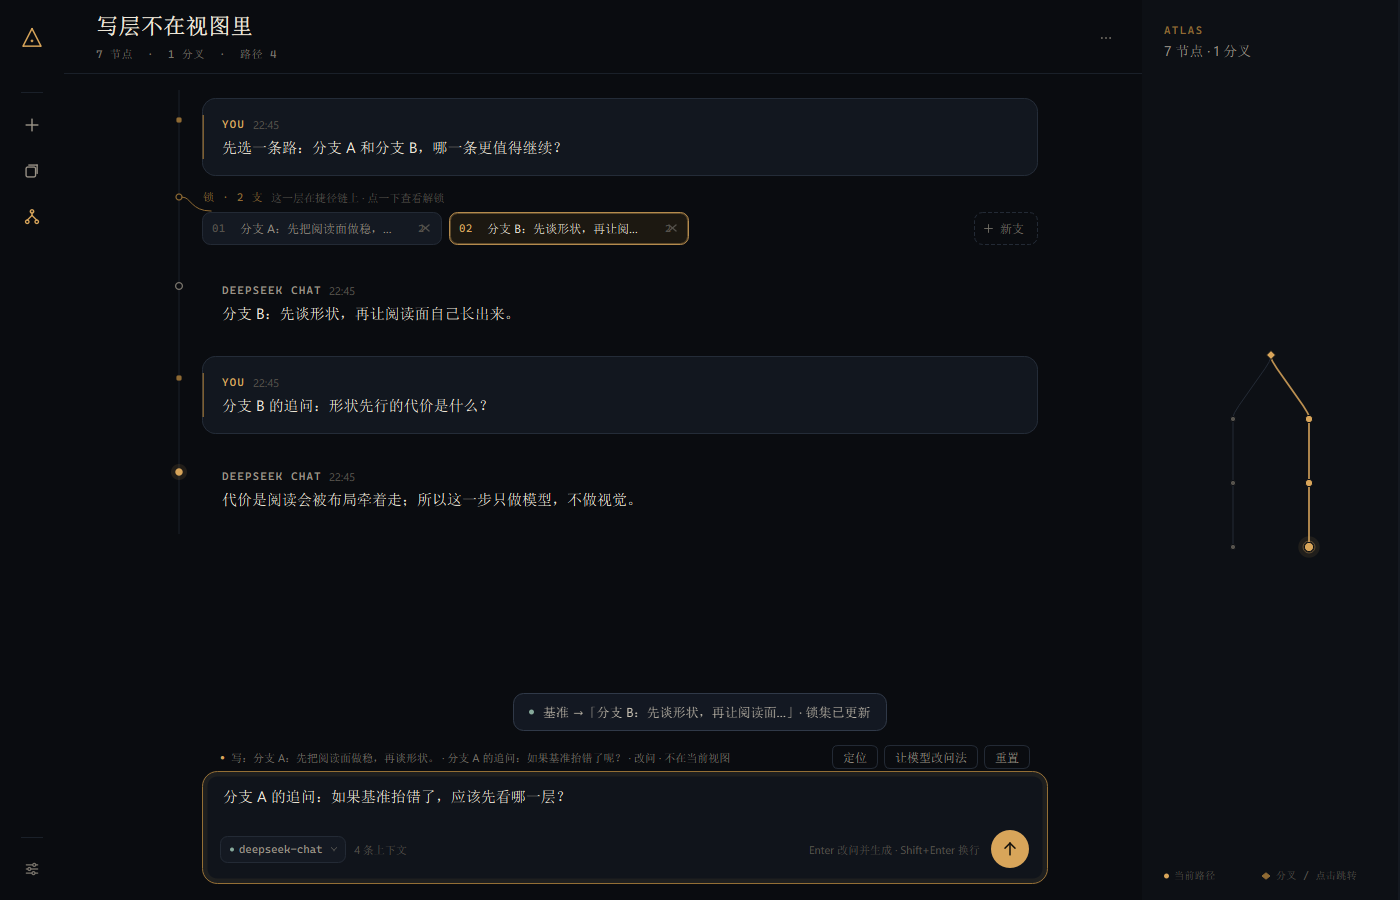
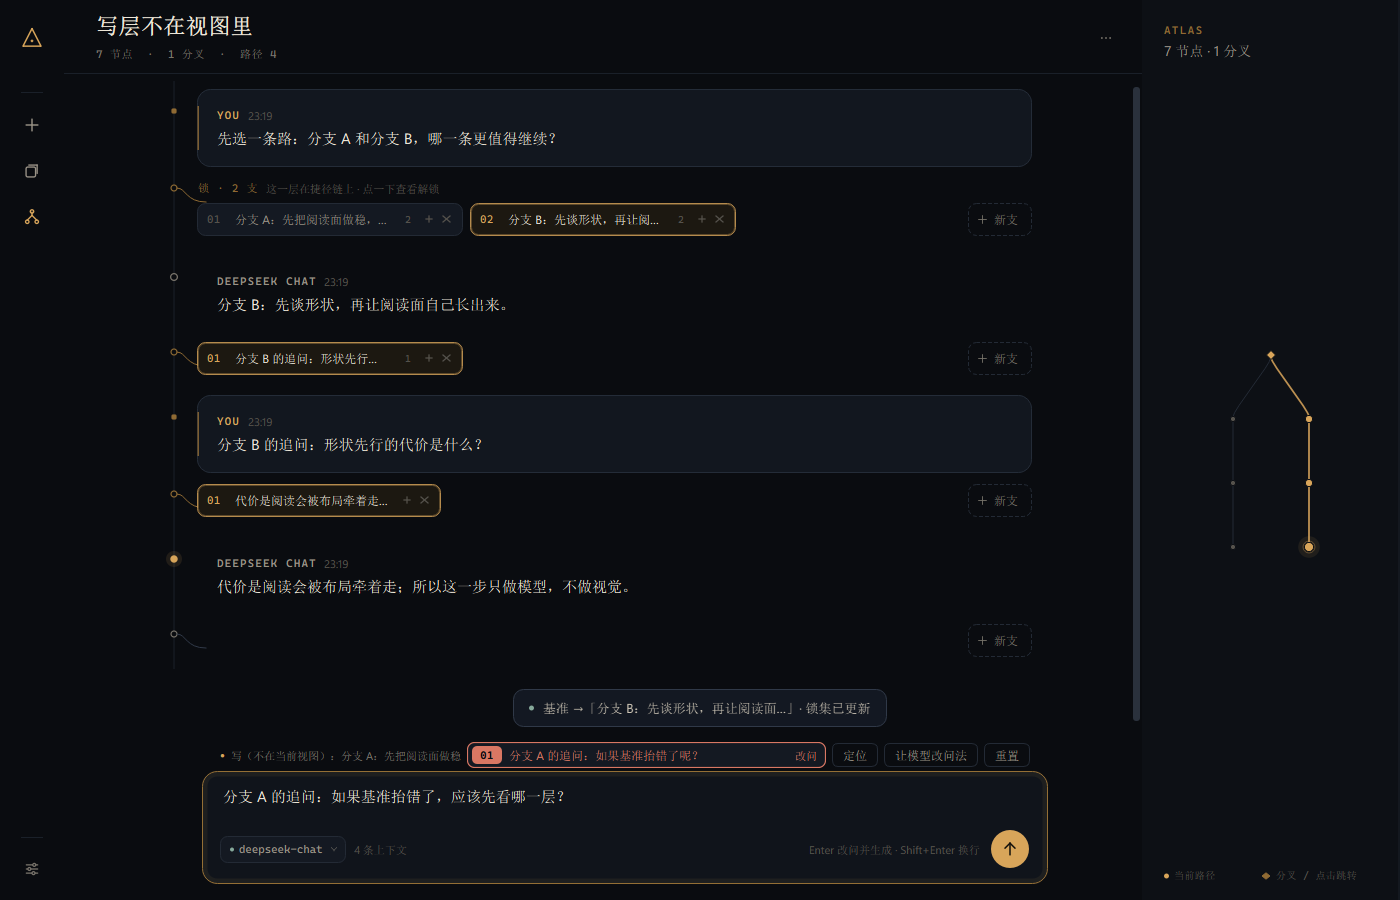
docs: tab wheel, plus/open state, target marker, clean drafts, fresh screenshots

diff --git a/README.md b/README.md
@@ -38,7 +38,7 @@ python -m delta
 - **层**是 parent 底下那排孩子。层上有两类**槽**：
   - 末尾的 **+**：这一层的"再来一个"（提问层 → 新提问；回答层 → 再生成）；
   - 每颗备选自己的槽：提问备选 → 改问；回答备选 → 按意见改 / 自己改。
-- 点开一个槽 = 输入框归它。上方一行写明 **写：层 · 底稿 · 模式**；打字只改这份草稿；切走再回来还在。同一层可以同时有多份草稿，互不覆盖。
+- 点开一个槽 = 输入框归它。上方是**目标标记**（写层 + 编号/底稿 + 模式），和目标标签同编号、同描边；打字只改这份草稿；切走再回来还在。同一层可以同时有多份草稿，互不覆盖。
 - 草稿有模式、初始文本和 dirty：
   - **重置**回到当前模式的初始文本（初始为空、底稿原文、回答原文）；脏了才可点；
   - 回答备选的两种模式可切换；写过会确认，确认后可撤销一次；
@@ -48,11 +48,14 @@ python -m delta
   - 再生成 / 按意见改 / 自己改 = 只写回答层；
   - 按意见改为空 = 普通再生成；改问/自己改与底稿完全相同会被禁用。
 - **写层被锁**时仍可开槽、打字；发送会进入两步确认（只抬基准），草稿全程保留，抬完再按一次发送。
-- **写层不在当前视图**时行里会写明，并给一个显式的 **定位**（set_baseline，不自动跳）。
+- **写层不在当前视图**时目标标记变红，行里写明"不在当前视图"，并给一个显式的 **定位**（set_baseline，不自动跳）。
+- **标签行滚轮**：鼠标在标签行上滚轮、Shift+滚轮都横向滚动；滚到两端也不穿透到正文。
+- **每颗标签有 +**：悬停出现的 + 打开该备选的槽（不是只能右键）；标签和输入框同时进入打开态（同编号、同描边、标签下划线）；末尾空白小签也有打开态；单孩子层也有可见标签（含 +、×）。
+- **干净草稿不落盘**：没输入过、或重置后的 clean 草稿不写 `ui.slots`，缺省读取就是当前模式的初始文本；流式时 clean 草稿仍继续跟随初始文本。
 - **锁**：某一层在捷径链（根 → 基准）上时，切换、新建、关闭、重排全部不可用。点一下只会进入确认态；确认 = **把基准抬到这一层的 parent**，四类操作一起恢复。不设单键快捷键。
 - **ATLAS** 点节点 = **设基准**；锁集是派生出来的，从不单独写。每次基准变化都会给一条文字提示。
 - 顶栏菜单：**回到默认路线**（基准 = 根）和 **把捷径写进默认…**（只写链上各层的默认，不解锁、不改基准）。
-- 单孩子层这一轮仍用卡片的**右键菜单**作为入口（新建 / 以这一支为底稿 / 关闭 / 抬基准）；连体标签形态留到下一轮。
+- 每一层（包括单孩子层）都有一颗可见标签，含 + 和 ×；右键菜单仍是快捷方式。连体标签形态留到下一轮。
 - **Enter** 执行，**Shift+Enter** 换行，**Esc** 停止（已收到的半个回答保留）；**Ctrl+N** 新对话，**Ctrl+L** 对话库，**Ctrl+M** 收起/展开 ATLAS。
 
 ## 它特别在哪
@@ -75,17 +78,21 @@ python -m delta
 - **视图**：`祖先链(descend(基准))` — 纯函数。
 - **命令**：基本命令声明写层、读集、效果、逆操作；`commands.execute` 对每一步先过门、再开写作用域；复合命令逐层。
 - **持久化**：每次操作原子写 JSON（schema 2）；旧文件（schema 1）在内存里迁移：把旧可见链一次性写进默认、基准 = 根，首屏不变、无锁、回默认不跳。
-- **槽与草稿**：存 `ui.slots` 子文档（版本化）：活跃槽 + 每个槽的模式/文本/dirty；旧 `ui.draft` 按视图叶映射到对应槽，不丢字；节点或层被删时相关槽/草稿被清掉。
+- **槽与草稿**：存 `ui.slots` 子文档（版本化）：活跃槽 + 每个槽的模式/文本/dirty；旧 `ui.draft` 按视图叶映射到对应槽，不丢字；节点或层被删时相关槽/草稿被清掉；clean 草稿不写，缺省即当前模式的初始文本。
 - **流式**：后台 daemon 线程只把 delta 放进队列；主线程 14ms 批量取一次。流式期先追加纯文本草稿，完成时一次性做完整 markdown 排版。
 
 ![Streaming](docs/screenshots/streaming.png)
 ![Interrupted](docs/screenshots/interrupted.png)
 
-**一个槽开着**（回答 B1 的按意见改槽；写层、底稿、模式、重置都在上方一行）：
+**一个槽开着**（02 标签打开；输入框上方的 02 目标标记指向它，层名/编号/底稿/模式同屏）：
 
 ![Slot open](docs/screenshots/slot_open.png)
 
-**写层不在当前视图**（活跃槽在分支 A；视图在分支 B；行里写明，并提供显式定位）：
+**八条标签，滚轮滚到末尾**（最后几条进入视野；标签行自己消费滚轮，不穿透正文）：
+
+![Tab wheel](docs/screenshots/tab_wheel.png)
+
+**写层不在当前视图**（目标标记变红 + "不在当前视图" + 定位；视图在分支 B，活跃槽在分支 A）：
 
 ![Slot off view](docs/screenshots/slot_offview.png)
 
@@ -95,9 +102,11 @@ python -m delta
 python -m pytest -q
 ```
 
-117 个测试：层与基准的派生（视图纯函数、锁集、默认/展示序/出生序）、命令写作用域（直接调层写入与越层命令都被挡住、逆操作声明）、四个改层门禁、关闭相邻接替、固化、核心防御性删除、schema 1 迁移、槽/草稿/模式切换/重置/逆操作、旧 `ui.draft` 映射、活跃槽持久化、原子存储、SSE 错误分类/中断保留、UI 的前缀控件身份与缓存复用、单行标签条溢出滚动、锁定层两步确认、发送锁层保留草稿、ATLAS 只改基准、右键入口、无 UI 旁路静态扫描、重启一致性、快速乱点。结果见 [docs/TEST_RESULTS.md](docs/TEST_RESULTS.md)。
+124 个测试：层与基准的派生（视图纯函数、锁集、默认/展示序/出生序）、命令写作用域（直接调层写入与越层命令都被挡住、逆操作声明）、四个改层门禁、关闭相邻接替、固化、核心防御性删除、schema 1 迁移、槽/草稿/模式切换/重置/逆操作、旧 `ui.draft` 映射、活跃槽持久化、原子存储、SSE 错误分类/中断保留、UI 的前缀控件身份与缓存复用、单行标签条溢出滚动、锁定层两步确认、发送锁层保留草稿、ATLAS 只改基准、右键入口、无 UI 旁路静态扫描、重启一致性、快速乱点。结果见 [docs/TEST_RESULTS.md](docs/TEST_RESULTS.md)。
 
-性能见 [docs/BENCH.md](docs/BENCH.md)：typing p95 7.76ms；render p95 8.56ms；layer switch p95 15.83ms。
+这一轮新增：标签行滚轮/Shift+滚轮横向滚动且两端不穿透、每颗标签的 + 与打开态、单孩子层可见标签、输入目标标记的编号/标题/变色/定位、干净草稿不落盘。
+
+性能见 [docs/BENCH.md](docs/BENCH.md)：typing p95 7.29ms；render p95 9.92ms；layer switch p95 31.54ms（单孩子标签行可见后，切换重建的行更多）。
 
 ## 结构
 
@@ -111,7 +120,8 @@ tools/          demo、基准、真实模型探针
 
 ## 已知边界
 
-- 这一轮只改模型与行为：配色、图标、动效没有重画；输入框上方多了写目标行与重置/模式/让模型改问法/定位这些文字按钮。单孩子层的连体标签形态、锁的视觉、横向滚动条的外观留到下一轮；因此单孩子层暂时用右键菜单作为入口。
+- 这一轮做可发现性：标签 +/打开态、输入目标标记、单孩子层可见标签、标签行滚轮；配色/动效/连体标签形态留到下一轮。
+- 单孩子层现在是 48px 的紧凑标签行，不是连体标签；每层多一行，长对话的滚动更长，这是下一轮视觉要收的账。
 - 截图来自本轮行为，不是最终视觉；视觉下一轮统一更新。
 - Markdown 是 Qt 富文本的子集；流式期间是纯文本草稿，完成时才排版。
 - ATLAS 为小树设计；几百个节点会变密，尚无搜索/缩放。

diff --git a/docs/TEST_RESULTS.md b/docs/TEST_RESULTS.md
@@ -6,7 +6,7 @@ Command:
 
 Result (2026-10-28, Windows 11, Python 3.14.4, PySide6 6.11.1):
 
-    117 passed in 16.44s
+    124 passed in 19.66s
 
 Raw output: [pytest-output.txt](pytest-output.txt)
 
@@ -23,21 +23,23 @@ Raw output: [pytest-output.txt](pytest-output.txt)
 | Converge | test_model.py | the global command writes only the shortcut layers' defaults, keeps the baseline and the view; the one global exception |
 | Defensive delete | test_model.py | removing a subtree that contains the baseline moves it to the nearest surviving ancestor (not reachable through a layer entrance) |
 | Display order | test_model.py | appending, reordering and closing keep birth order; display order is a permutation; the view does not move |
-| Slots / drafts | test_model.py | per-slot drafts; dirty/reset; mode switch confirm + one-step undo; clean switch seamless; default and legacy slot mapping; persistence; prune |
+| Slots / drafts | test_model.py | per-slot drafts; dirty/reset; mode switch confirm + one-step undo; clean switch seamless; default and legacy slot mapping; persistence; prune; clean drafts are omitted from ui.slots while still following the initial text |
 | Slot commands | test_model.py | new question is a 2-step composite with one inverse; new answer is single; revise question keeps the original; rewrite with/without feedback; self-edit is non-model; root writes the root then the answer; declared read ids; can_send rules |
 | Draft actions | test_model.py | reset, mode switch and propose-question-messages write no node |
 | Migration | test_migration.py | schema 1 -> 2: the old visible chain becomes the default route; baseline = root; no locks; mid-branch pointer truncates; schema 2 roundtrip |
 | Context | test_context.py | only the view enters the prompt; reasoning is never sent back; empty placeholders skipped |
 | Persistence | test_store.py | atomic save/load of nodes, defaults, baseline, display order, meta, UI slots; crash mid-stream becomes interrupted; trash; schema 2 on disk |
 | Streaming | test_client.py | SSE content + reasoning; 401/403, 429 + Retry-After, 5xx; timeout; dropped connection; cancellation after partial; malformed events; missing key |
-| UI: layer strip | test_ui.py | one row, fixed height, horizontal scroll on overflow; add opens a slot (no node); close/drag are commands |
-| UI: slot line | test_ui.py | write target + mode above the input; reset enabled only when dirty; locate action; off-view line; locked line says the baseline moves first |
+| UI: layer strip | test_ui.py | one row, fixed height, horizontal scroll on overflow; wheel/Shift+wheel scroll horizontally and are consumed at both ends; each tab has a visible + that opens its slot; open tab and tail chip have an open state; single-child layers show a compact tab with +/×; add opens a slot (no node); close/drag are commands |
+| UI: slot line | test_ui.py | the target marker shares the tab's number/title/outline; the write-layer label is explicit; off-view turns the marker red and shows locate; locked says the baseline moves first; reset enabled only when dirty |
+| UI: clean drafts | test_ui.py | opening a slot with no text leaves ui.slots empty; typing creates an item; reset removes it again |
 | UI: modes | test_ui.py | answer base switches model/self mode; dirty confirm; one-step undo; per-slot drafts survive switching |
 | UI: send | test_ui.py | send executes the active slot; new question/answer; rewrite empty = regenerate; rewrite feedback reads the base; self-edit makes no model call; active slot moves to the new view leaf tail |
 | UI: locks | test_ui.py | clicking a locked tab does not switch; confirming raises the baseline; sending on a locked write layer writes nothing and keeps the draft; after unlocking, send again works |
 | UI: proposal | test_ui.py | propose question replaces the draft only; no node; draft dirty |
 | UI: ATLAS | test_ui.py | a click changes only the baseline; reset releases every lock |
 | UI: incremental | test_ui.py | a switch preserves the exact widget objects in the common prefix; off-screen cards are reused on return |
+| UI: target | test_ui.py | the marker number equals the tab number (02), the title is the tab title, and the same tab is open |
 | UI: restart | test_ui.py | active slot and draft survive close/reopen |
 | UI: rapid | test_ui.py | second send while streaming ignored; switching layers mid-stream; double stop; partial text stays on its own node |
 | UI: no bypass | test_ui.py | a static scan of delta/ui asserts no direct layer write, no raw scope call, no direct convo.create/activate/close/reorder/send/ask/answer/abandon, no old API names |
@@ -46,13 +48,14 @@ Raw output: [pytest-output.txt](pytest-output.txt)
 ## Acceptance mapping
 
 1. **Real model, streaming, interrupt, no content loss** — previous live probe: status=complete, 4 SSE tokens, 0.84 s; the UI stream path is covered with a fake client (complete, interrupted, 401), and partial text is asserted in both the node and the saved JSON.
-2. **Key -> char / token -> screen** — [BENCH.md](BENCH.md): typing p95 7.76 ms; streaming render p95 8.56 ms; the UI batches deltas every 14 ms, so the end-to-end p95 is about 22.6 ms, under two 16.7 ms frames. Layer switch p95 15.83 ms after a warm-up.
+2. **Key -> char / token -> screen** — [BENCH.md](BENCH.md): typing p95 7.29 ms; streaming render p95 9.92 ms; the UI batches deltas every 14 ms, so the end-to-end p95 is about 23.9 ms, under two 16.7 ms frames. Layer switch p95 31.54 ms after a warm-up (the compact single-child rows add rebuild work; still under two frames).
 3. **Reflow limited to the affected part** — test_activate_replaces_only_the_suffix asserts prefix identity; test_switch_back_reuses_cached_cards asserts the returned card is the same object.
 4. **Restart identical** — test_restart_restores_active_slot_and_draft; JSON is atomic; the scroll anchor is (row key, offset); the active slot/draft are versioned in ui.slots.
 5. **Rapid operations** — test_rapid_operations_do_not_crosstalk plus double-send/double-stop assertions.
 
 ## Not covered / known
 
-- The visual layer (connected single-child tab, lock affordance, scrollbar look, slot-row styling) is next round.
+- The visual layer (connected single-child tab, lock affordance, scrollbar look, final slot-row styling) is next round.
+- Single-child layers now have a 48px compact strip, not the connected tab; every layer adds a row, so long conversations scroll longer.
 - The current screenshots show behavior, not final visual design.
 - All UI writes go through commands; the one declared repair is RepairEmpty (a streaming placeholder that never received text), also a command with a write layer and a gate.

diff --git a/docs/DESIGN.md b/docs/DESIGN.md
@@ -16,7 +16,11 @@
 
 层上有两类槽：末尾槽（这一层再来一个）和每颗备选自己的槽（以它为底稿）。一个槽最多一份草稿：模式 + 文本 + dirty。同一层可以有多份草稿；同一时刻只有一个活跃槽，输入框归它。草稿与活跃槽存 ui.slots 子文档（版本化），旧 ui.draft 按视图叶映射到对应槽。
 
-模式决定三件事：打开时文本、重置回到哪、执行时发生什么。初始文本是纯函数，不存；未写过（clean）时文本跟随初始（底稿流式时会继续长），写过（dirty）则冻结。重置回到当前初始并清 dirty；模式切换 clean 无感、dirty 要确认，并可撤销一次。
+模式决定三件事：打开时文本、重置回到哪、执行时发生什么。初始文本是纯函数，不存；未写过（clean）时文本跟随初始（底稿流式时会继续长），写过（dirty）则冻结。重置回到当前初始并清 dirty；模式切换 clean 无感、dirty 要确认，并可撤销一次。持久化只写 dirty 草稿：clean 草稿等于"不存在"，缺省读取就是当前模式的初始文本；活跃槽若指向 clean 槽则存 None，读回时回默认。
+
+## 标签条与目标标记
+
+标签条是层的入口。滚轮（含 Shift）在标签条上始终横向滚动，到两端也消费事件，不穿透正文。每颗标签有可见的 +（打开该备选的槽）和 ×（关闭）；打开时标签与输入框共用一套标记：同编号、同描边、标签下划线；末尾小签也有打开态。输入框上方是目标标记（写层 + 编号/底稿 + 模式），不是一行弱说明。单孩子层也显示紧凑标签行，不能只靠右键。
 
 ## 发送是命令，不是塞消息
 
@@ -31,8 +35,8 @@
 - **回答备选两种模式**：按意见改（草稿是意见，模型直接产出新回答节点）和 自己改（草稿是回答原文，不调模型，追加新节点）。回答里装的是模型的话，模型可以直接生产；提问里装的是用户的话，模型只能提议。
 - **读**：祖先链 + 被改的那一条本身，排除它的后代；默认不读兄弟。重写回答时额外读意见；空意见退化成普通再生成。
 - **逆操作**：加孩子 → 关闭它；激活/重排 → 反向；关闭/空占位清理 → 无逆操作，显式不可撤销。模式切换的撤销是草稿级一步快照，不是树级 undo。
-- **活跃槽粘住**：点开哪个就是哪个；视图切换不偷走它。写层不在视图里时行里写明并给显式定位（set_baseline，不自动跳）；执行成功后活跃槽移到新视图叶的末尾槽。
-- **单孩子层**：行为入口是卡片右键菜单（新建 / 以这一支为底稿 / 关闭 / 抬基准）；连体标签形态留到下一轮，不把旧按钮加回卡片。
+- **活跃槽粘住**：点开哪个就是哪个；视图切换不偷走它。写层不在视图里时目标标记变红、写层名加"不在视图"前缀，并给显式定位（set_baseline，不自动跳）；执行成功后活跃槽移到新视图叶的末尾槽。
+- **单孩子层**：也显示一条 48px 的紧凑标签行（标签含 +、×、末尾小签）；右键菜单仍是快捷方式。连体标签形态留到下一轮。
 
 ## 砍掉
 
@@ -43,7 +47,7 @@
 ## 迁移
 
 - **对话 schema 1 → 2**：旧可见链（根 → 旧指针）一次性写进默认，基准 = 根；旧指针停在分支中间时清掉它自己的默认，让首屏停在用户最后看到的节点。链外旧首选保留。不降级。
-- **ui 子文档**：旧 ui.draft 按视图叶映射到对应槽，不丢字；活跃槽有效则恢复；节点/层被删时相关槽与草稿删除。
+- **ui 子文档**：旧 ui.draft 按视图叶映射到对应槽，不丢字；活跃槽有效则恢复；节点/层被删时相关槽与草稿删除；clean 草稿不写，缺省即初始。
 
 ## 热路径
 
@@ -54,7 +58,7 @@
 
 ## 代价（不藏）
 
-- 标签条切换会重建这一层的 chips；BENCH 里 p95 15.83ms（含 warm-up 后），仍可能超过一帧。
-- 单孩子层这一轮没有连体标签，入口在右键菜单里，发现性差；下一轮补。
-- 写目标行和槽按钮是文字控件，视觉权重偏弱；下一轮统一视觉。
+- 标签条切换会重建这一层的 chips；单孩子标签行可见后，BENCH 的层切换 p95 31.54ms（含 warm-up），仍在两帧以内，但比上一轮高。
+- 单孩子层现在是紧凑标签行，不是连体标签；每层多一行，长对话滚动更长；连体形态下一轮补。
+- 目标标记和槽按钮仍是文字/自绘小控件，视觉权重下一轮统一。
 - ATLAS 没有搜索/缩放；几百节点会变密。

diff --git a/docs/BENCH.md b/docs/BENCH.md
@@ -1,8 +1,8 @@
 # Benchmark
 
 - machine: Windows-11-10.0.26200-SP0 / Python 3.14.4
-- typing (key -> composer paint): p50 2.77 ms, p95 7.76 ms, max 15.09 ms
-- streaming token batch (5 chars -> incremental draft append + body paint): p50 5.94 ms, p95 8.56 ms, max 9.14 ms
-- layer switch (prefix diff + rebuild suffix): p50 9.50 ms, p95 15.83 ms, max 15.83 ms
+- typing (key -> composer paint): p50 2.69 ms, p95 7.29 ms, max 15.70 ms
+- streaming token batch (5 chars -> incremental draft append + body paint): p50 5.62 ms, p95 9.92 ms, max 22.21 ms
+- layer switch (prefix diff + rebuild suffix): p50 15.15 ms, p95 31.54 ms, max 31.54 ms
 
 Method: one warm-up key sequence, one warm-up streaming append, and one warm-up layer switch precede the measurements; 160 injected key events with an immediate repaint of the composer; 70 streaming batches of 5 Chinese characters appended to an in-flight card with an immediate repaint; 20 alternating layer switches. Real deltas are batched by the app on a 14 ms timer, so the end-to-end p95 is about 14 ms plus the render number above. Layer switches alternate between two already-rendered layers, so the card cache is exercised; the first visit to an unseen layer additionally renders its cards.
